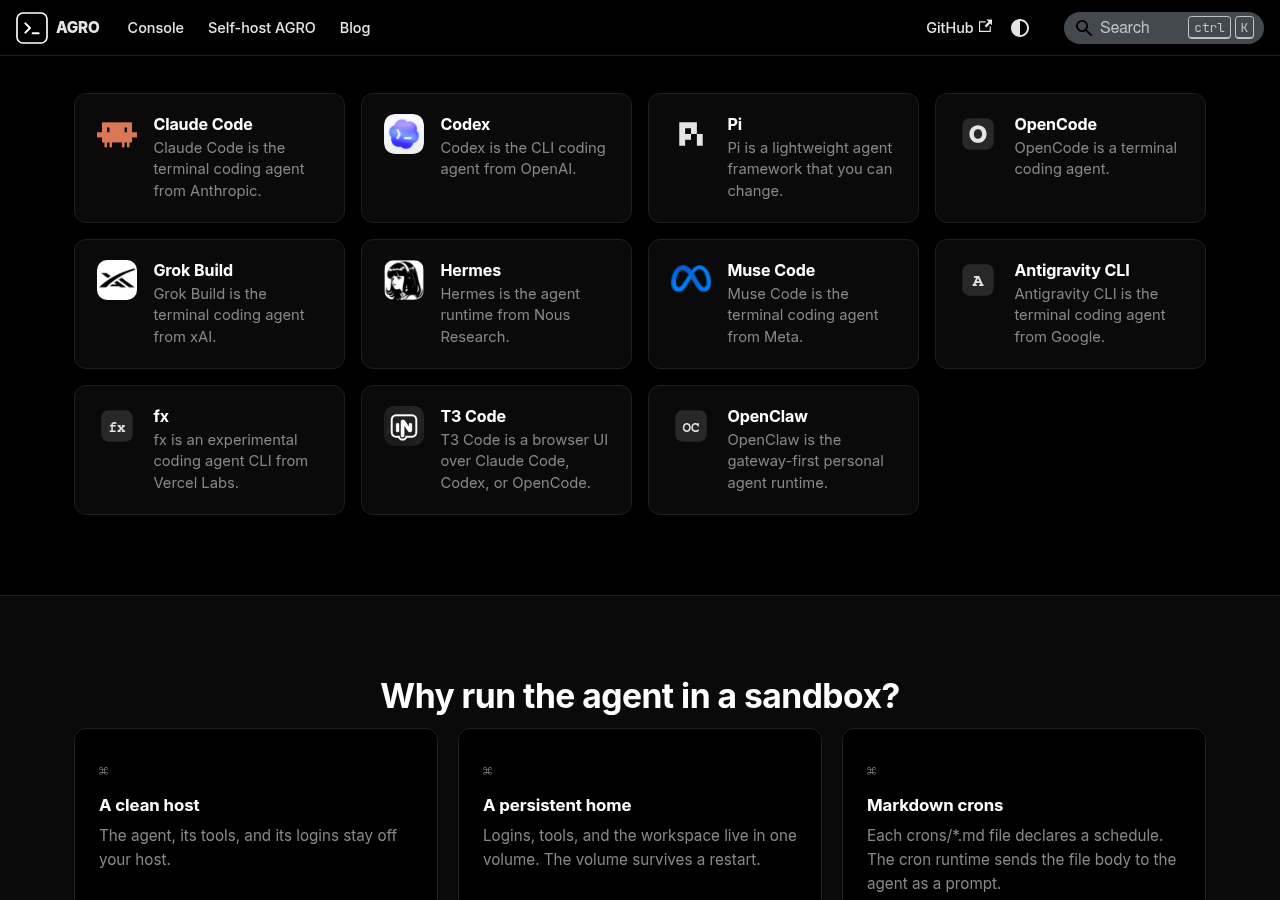
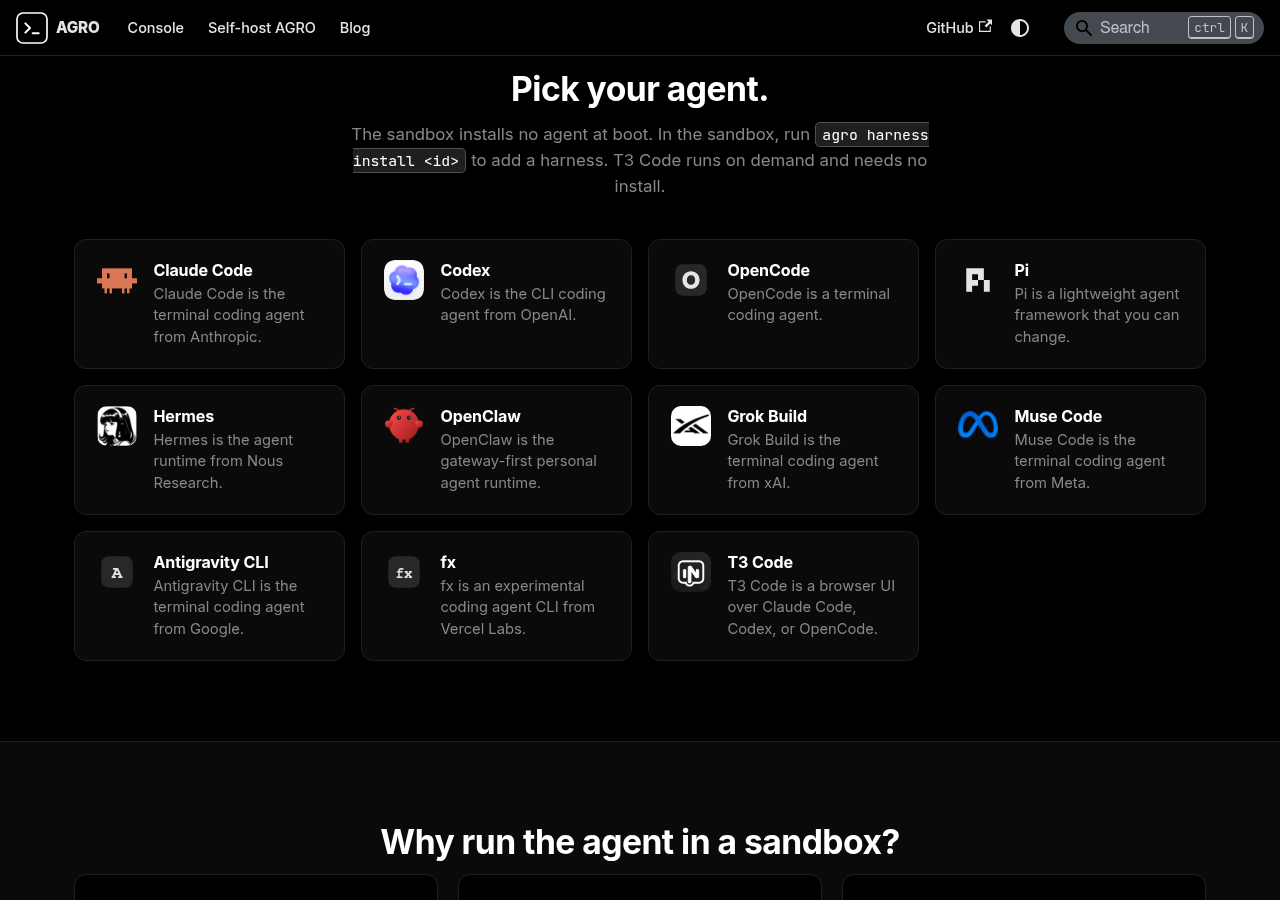
feat: align the landing agent list with the mifune.dev picker (#77)

diff --git a/src/pages/index.tsx b/src/pages/index.tsx
@@ -45,28 +45,34 @@ const AGENTS: Array<{
     icon: <img src="/img/agents/codex.png" alt="" width={28} height={28} />,
   },
   {
-    id: "pi",
-    name: "Pi",
-    description: "Pi is a lightweight agent framework that you can change.",
-    icon: <PiIcon />,
-  },
-  {
     id: "opencode",
     name: "OpenCode",
     description: "OpenCode is a terminal coding agent.",
     icon: <OpenCodeIcon />,
   },
   {
-    id: "grok-build",
-    name: "Grok Build",
-    description: "Grok Build is the terminal coding agent from xAI.",
-    icon: <img src="https://x.ai/favicon.ico" alt="" width={28} height={28} />,
+    id: "pi",
+    name: "Pi",
+    description: "Pi is a lightweight agent framework that you can change.",
+    icon: <PiIcon />,
   },
   {
     id: "hermes",
     name: "Hermes",
     description: "Hermes is the agent runtime from Nous Research.",
     icon: <img src="https://hermes-agent.nousresearch.com/favicon.ico" alt="" width={28} height={28} />,
+  },
+  {
+    id: "openclaw",
+    name: "OpenClaw",
+    description: "OpenClaw is the gateway-first personal agent runtime.",
+    icon: <img src="/img/agents/openclaw.png" alt="" width={28} height={28} />,
+  },
+  {
+    id: "grok-build",
+    name: "Grok Build",
+    description: "Grok Build is the terminal coding agent from xAI.",
+    icon: <img src="https://x.ai/favicon.ico" alt="" width={28} height={28} />,
   },
   {
     id: "muse-code",
@@ -98,12 +104,6 @@ const AGENTS: Array<{
         height={28}
       />
     ),
-  },
-  {
-    id: "openclaw",
-    name: "OpenClaw",
-    description: "OpenClaw is the gateway-first personal agent runtime.",
-    icon: <MonogramIcon letter="OC" />,
   },
 ];
 

diff --git a/.agro/tasks/openclaw-supported/evidence/manual-review.md b/.agro/tasks/openclaw-supported/evidence/manual-review.md
@@ -39,8 +39,27 @@ The preview build ran in tmux session `aw77-serve` with `pnpm exec docusaurus se
 | --- | --- |
 | Open `/docs/agro/harnesses/openclaw` | Title `OpenClaw \| AGRO`. H1 `OpenClaw`. The sidebar shows OpenClaw after Hermes. |
 | Open `/docs/harnesses/openclaw` | Redirects to `/docs/agro/harnesses/openclaw` |
-| Landing page entry | Text `OC OpenClaw OpenClaw is the gateway-first personal agent runtime.` after T3 Code |
+| Landing page entry | Text `OpenClaw OpenClaw is the gateway-first personal agent runtime.` after Hermes. The icon `/img/agents/openclaw.png` loads at natural width 180. |
 | Click the landing entry | Opens `/docs/agro/harnesses/openclaw` |
+
+## Landing order repair
+
+The landing list matches the mifune.dev picker (mifunedev/website#76, commit `a890637`, `src/sections/AgentPickerSection.tsx`).
[1 lines of base64/hex data omitted]
+
+The browser reads this card order from the served preview build:
+
+```
+["Claude Code","Codex","OpenCode","Pi","Hermes","OpenClaw","Grok Build","Muse Code","Antigravity CLI","fx","T3 Code"]
+```
+
+| Command | Exit status | Result |
+| --- | --- | --- |
+| `pnpm test` | 0 | 90 tests pass |
+| `pnpm run check:docs-drift` | 0 | PASS, 26 files |
+| `pnpm run check:ste` | 0 | no findings in 23 files |
+| sync from `e00e5a56`, then `pnpm exec docusaurus build` | 0 | `[SUCCESS] Generated static files in "build".` |
+| `node scripts/check-theme-script-order.mjs` | 0 | PASS |
 
 Screenshots:
 
